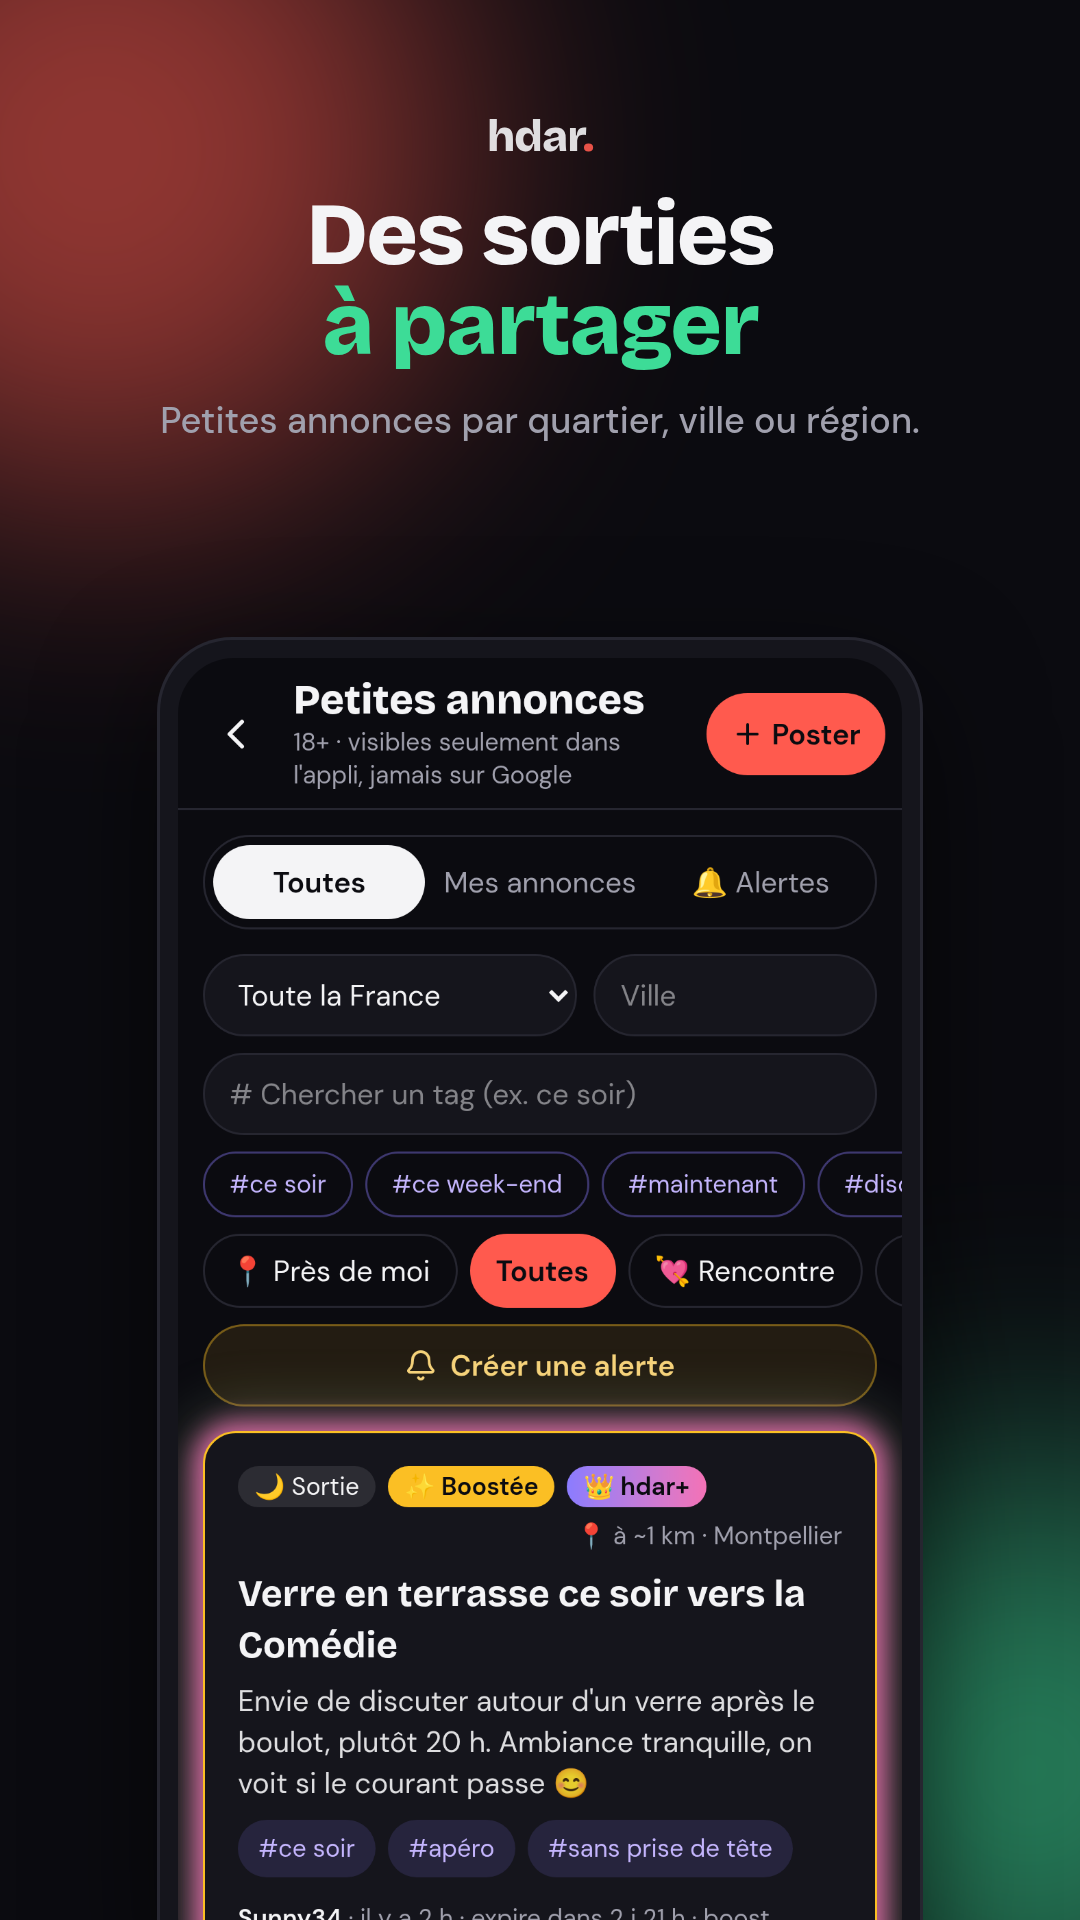
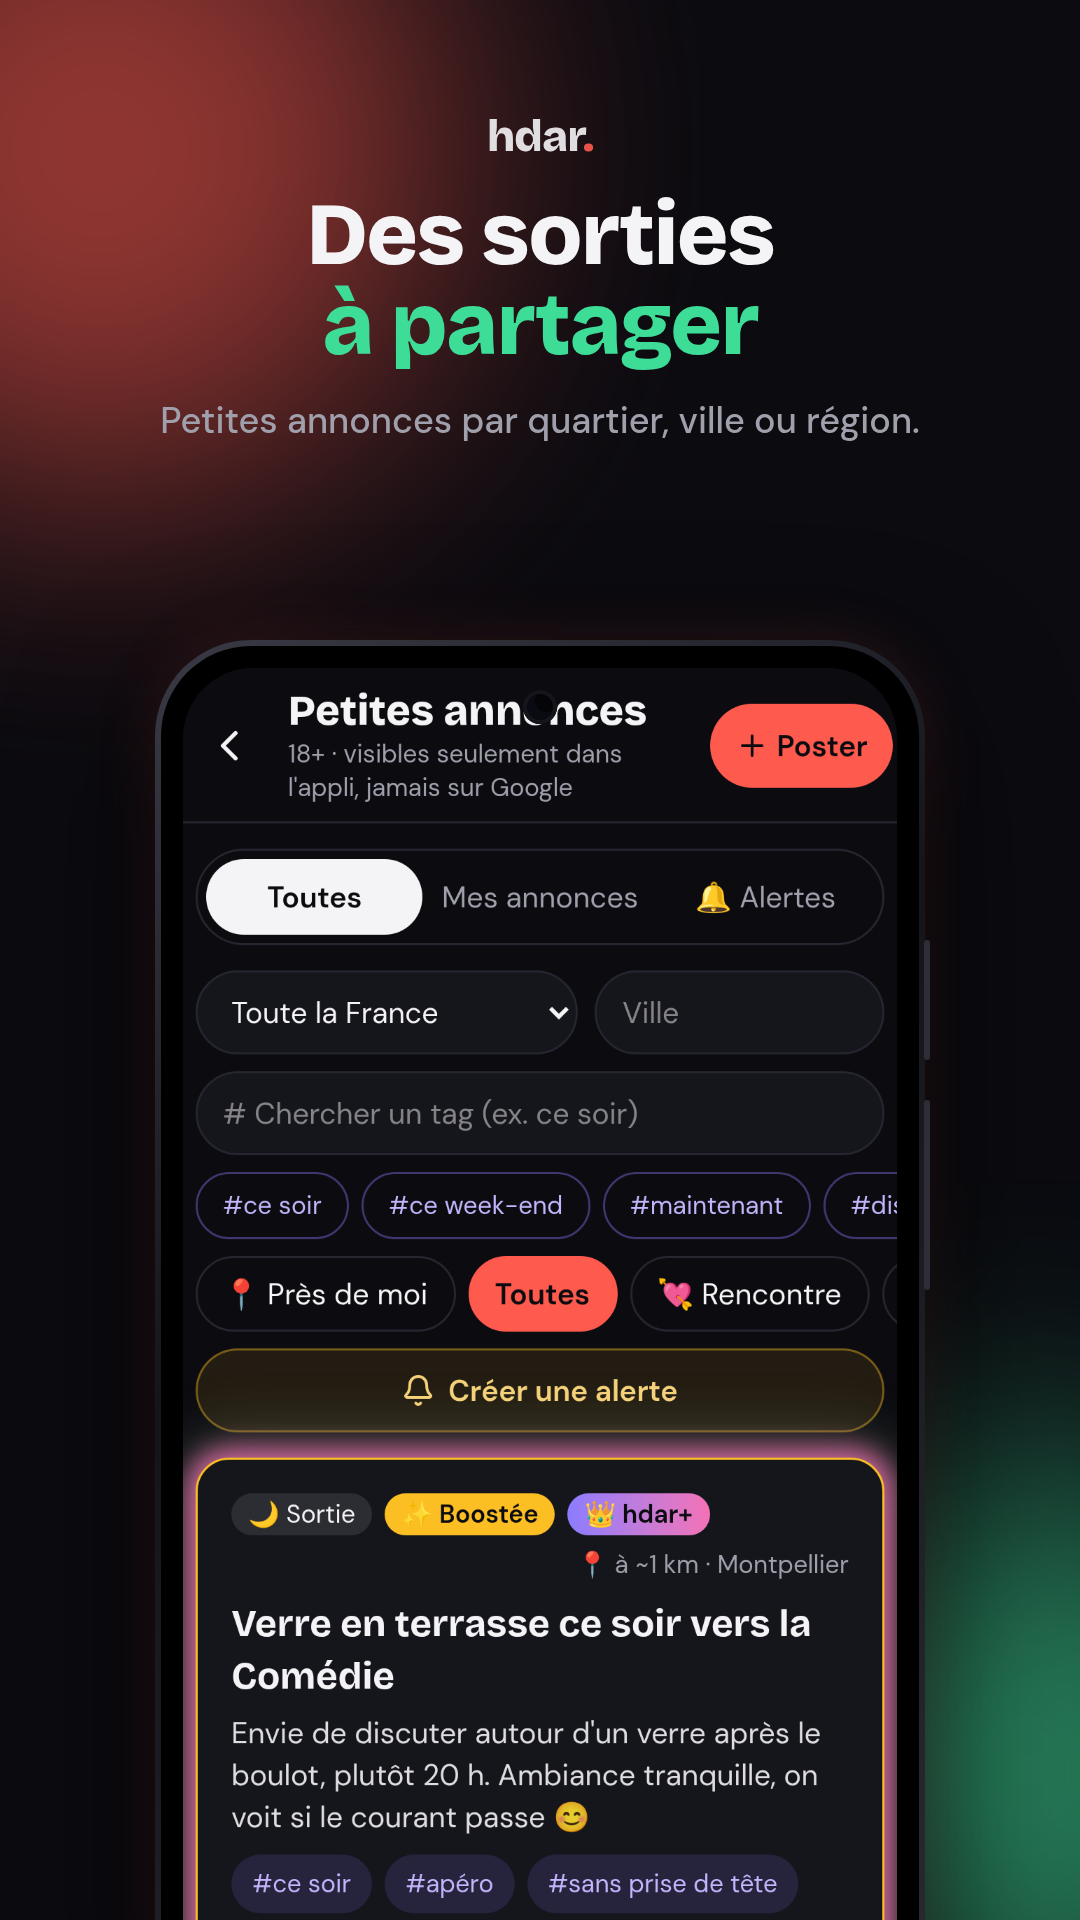
Store: captures avec cadre téléphone, couche Lieux visible (libellé « Lieu public »), message démo adouci

Changed region(s): [[0.1222, 0.3125, 0.8861, 1.0], [0.2139, 0.375, 0.2444, 0.4062]]

diff --git a/src/components/hdar/places-layer.tsx b/src/components/hdar/places-layer.tsx
@@ -1,4 +1,3 @@
-import { isStoreApp } from "@/lib/store-app";
 import { useEffect, useRef, useState } from "react";
 import { toast } from "sonner";
 import { X } from "lucide-react";
@@ -10,7 +9,7 @@ import { useHdar } from "@/lib/hdar/store";
 import { useAmAdmin } from "@/lib/hdar/admin-mode";
 
 export const PLACE_KINDS: Record<PlaceKind, { label: string; icon: string; color: string }> = {
-  cruising: { label: "Lieu de rencontre", icon: "🌲", color: "#34d399" },
+  cruising: { label: "Lieu public", icon: "🌲", color: "#34d399" },
   beach: { label: "Plage naturiste", icon: "🏖", color: "#38bdf8" },
   park: { label: "Parc / jardin", icon: "🌳", color: "#a3e635" },
   aire: { label: "Aire / parking", icon: "🅿", color: "#fbbf24" },
@@ -25,7 +24,7 @@ export const PLACE_KINDS: Record<PlaceKind, { label: string; icon: string; color
   club: { label: "Club partenaire", icon: "🪩", color: "#f472b6" },
   sauna: { label: "Sauna partenaire", icon: "♨", color: "#f472b6" },
 };
-const PROPOSABLE: PlaceKind[] = (["park", "garden", "viewpoint", "square", "promenade", "beach", "aire", "cruising", "other"] as PlaceKind[]).filter((k) => !(k === "cruising" && isStoreApp()));
+const PROPOSABLE: PlaceKind[] = ["park", "garden", "viewpoint", "square", "promenade", "beach", "aire", "cruising", "other"];
 const LAYER_KEY = "hdar-places-layer";
 const TOILETS_KEY = "hdar-toilets-layer";
 export function toiletsLayerOn() {
@@ -84,7 +83,7 @@ export function usePlaces(on: boolean) {
       stop = true;
     };
   }, [on]);
-  return on ? (isStoreApp() ? rows.filter((r) => r.kind !== "cruising") : rows) : [];
+  return on ? rows : [];
 }
 
 export function PlaceSheet({ id, onClose }: { id: string; onClose: () => void }) {

diff --git a/src/components/hdar/group-chat.tsx b/src/components/hdar/group-chat.tsx
@@ -447,8 +447,8 @@ export function GroupChatDemo() {
   const lines = [
     mk(1, "7f3a", "Lucas34", "Quelqu'un sort ce soir vers Comédie ?", 1500),
     mk(2, "b21c", "Nina", "Moi peut-être, plutôt vers 22 h", 1490),
-    mk(3, "me", "Toi", "Je suis chaud 🔥", 30),
-    mk(4, "7f3a", "Lucas34", "Top ! On se retrouve où ?", 12, { replyTo: "d3", reply: { pseudo: "Toi", body: "Je suis chaud 🔥" } }),
+    mk(3, "me", "Toi", "Partant pour un verre 🔥", 30),
+    mk(4, "7f3a", "Lucas34", "Top ! On se retrouve où ?", 12, { replyTo: "d3", reply: { pseudo: "Toi", body: "Partant pour un verre 🔥" } }),
     mk(5, "7f3a", "Lucas34", "Je connais un bar sympa rue de l'Université", 11),
     mk(6, "c90e", "Sam", "Je viens aussi si ça vous dérange pas 😊", 3),
   ];
